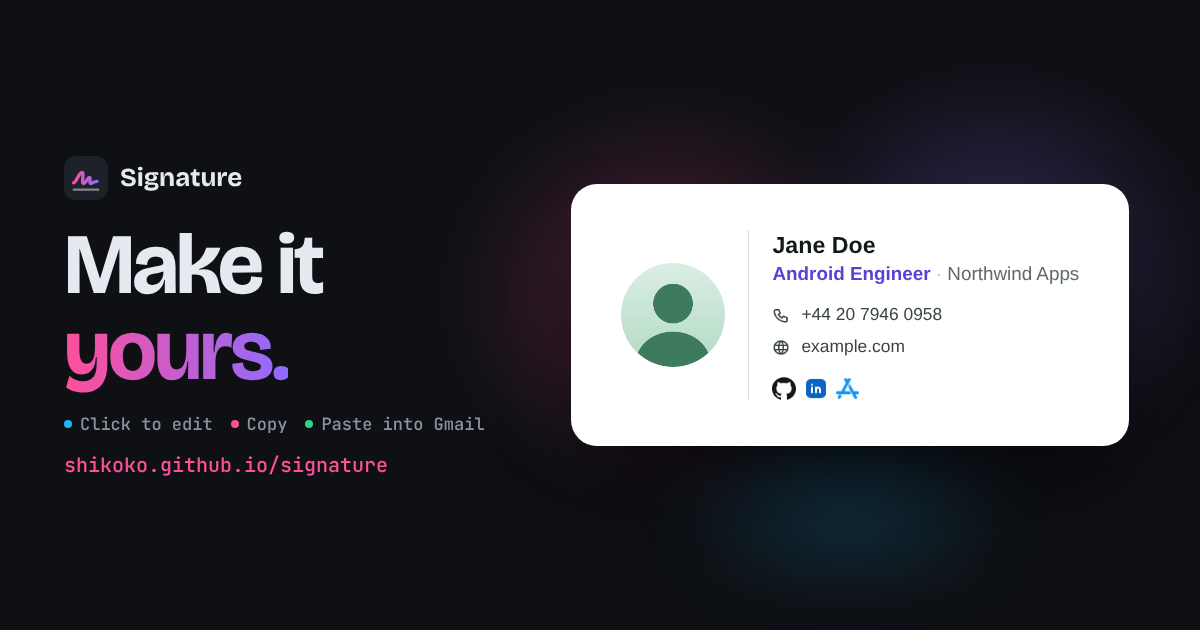
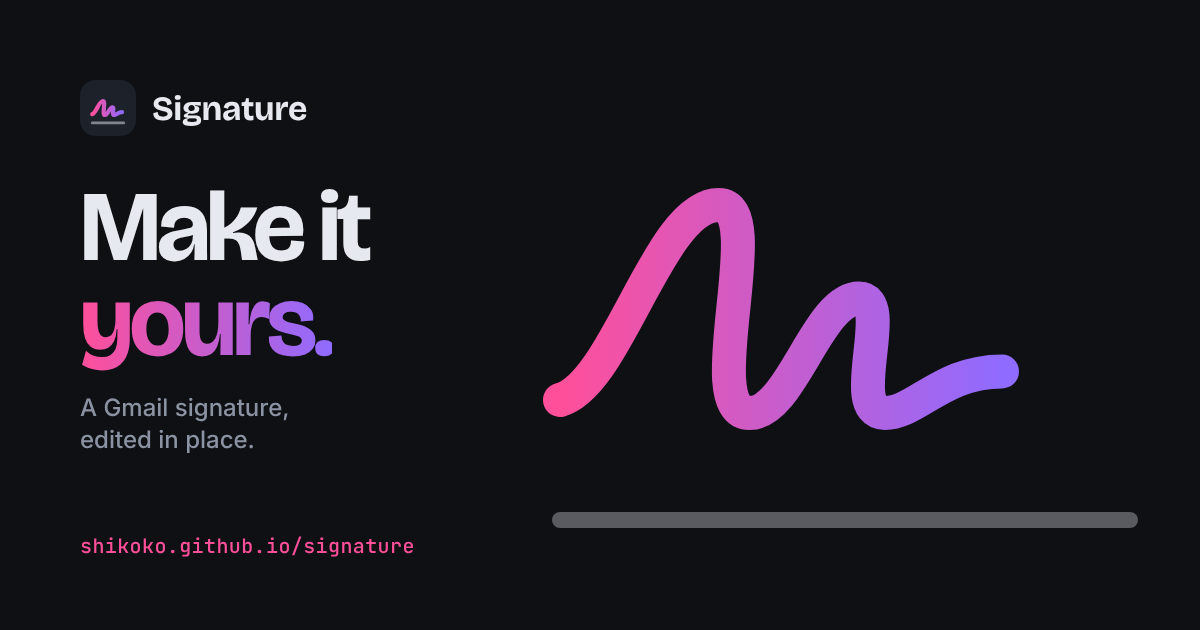
Make the share picture Signature's squiggle, with a source to render it
Links to the site showed a product shot: the opening words beside the
example signature. The share picture, assets/social-preview.png, is now
Signature's icon drawn large: the pink-to-violet squiggle above its
line on the page's dark background, beside "Make it yours." and "A
Gmail signature, edited in place.".

- tools/social-card/card.html is the picture's source, and render.js
  renders it at 1200x630 for the site and at 1280x640 for the
  repository's social preview on GitHub, which is uploaded by hand and
  not committed. It stops if the fonts didn't load.
- The product shot stays at the top of the README, now as
  assets/example-signature.png.
- og:image gets ?v=2 so sites fetch the new picture, and og:image:alt
  describes it.
- README.md and CLAUDE.md describe the new files.

Side effect: links shared before this may keep the old picture on sites
that cached it.

diff --git a/tools/social-card/card.html b/tools/social-card/card.html
@@ -1,0 +1,41 @@
+<!DOCTYPE html>
+<!-- The share picture for https://shikoko.github.io/signature/: the source of
+     assets/social-preview.png (1200x630, the page's og:image) and of
+     github-social-preview.png (1280x640, uploaded by hand as the repository's
+     social preview on GitHub). render.js in this folder renders both.
+     Signature's icon drawn large: the pink-to-violet squiggle above its line,
+     on the page's dark background, beside the page's opening words. -->
+<html lang="en-GB">
+<head>
+<meta charset="UTF-8">
+<title>Signature share picture</title>
+<link href="https://fonts.googleapis.com/css2?family=Bricolage+Grotesque:opsz,wght@12..96,700&family=Inter:wght@500&family=JetBrains+Mono:wght@500&display=swap" rel="stylesheet">
+<style>
+  * { box-sizing: border-box; margin: 0; padding: 0; }
+  html, body { width: 100vw; height: 100vh; overflow: hidden; }
+  body { position: relative; background: #0e1014; color: #e6e9ef; font-family: "Bricolage Grotesque", sans-serif; -webkit-font-smoothing: antialiased; }
+  .text { position: absolute; z-index: 1; left: 80px; top: 80px; bottom: 74px; display: flex; flex-direction: column; }
+  .brand { display: flex; align-items: center; gap: 16px; font-size: 34px; font-weight: 700; letter-spacing: -.01em; }
+  .brand svg { width: 56px; height: 56px; }
+  h1 { margin-top: 44px; font-size: 100px; font-weight: 700; line-height: .95; letter-spacing: -.04em; }
+  h1 em { font-style: normal; background: linear-gradient(90deg, #ff4f9a, #8f6bff); -webkit-background-clip: text; background-clip: text; color: transparent; }
+  .line { margin-top: 22px; font: 500 24px/1.35 Inter, sans-serif; color: #8b93a3; }
+  .site { margin-top: auto; font: 500 20px/1 "JetBrains Mono", monospace; letter-spacing: .02em; color: #ff4f9a; }
+  .art { position: absolute; inset: 0; width: 100%; height: 100%; }
+</style>
+</head>
+<body>
+  <div class="text">
+    <div class="brand"><svg viewBox="0 0 32 32" aria-hidden="true"><defs><linearGradient id="mark" x1="0" x2="1"><stop offset="0" stop-color="#ff4f9a"/><stop offset="1" stop-color="#8f6bff"/></linearGradient></defs><rect width="32" height="32" rx="9" fill="#1d212a"/><path d="M7 19.5c2.2-.6 3.8-7.5 6.1-7.5 2 0-.9 8 1.2 8 1.6 0 2.6-4.4 4.2-4.4 1.4 0-.6 4.4 1 4.4 1.2 0 2.2-1.6 4.5-1.6" fill="none" stroke="url(#mark)" stroke-width="2.4" stroke-linecap="round" stroke-linejoin="round"/><path d="M7 24.5h18" stroke="#e6e9ef" stroke-opacity=".5" stroke-width="1.6" stroke-linecap="round"/></svg>Signature</div>
+    <h1>Make it<br><em>yours.</em></h1>
+    <p class="line">A Gmail signature,<br>edited in place.</p>
+    <p class="site">shikoko.github.io/signature</p>
+  </div>
+  <!-- The icon's squiggle at 26 times its size, starting at (560, 400), above its line -->
+  <svg class="art" viewBox="0 0 1200 630" preserveAspectRatio="xMaxYMid meet" aria-hidden="true">
+    <defs><linearGradient id="ink" x1="0" x2="1"><stop offset="0" stop-color="#ff4f9a"/><stop offset="1" stop-color="#8f6bff"/></linearGradient></defs>
+    <path d="M560 400 c 57.2 -15.6, 98.8 -195, 158.6 -195 c 52 0, -23.4 208, 31.2 208 c 41.6 0, 67.6 -114.4, 109.2 -114.4 c 36.4 0, -15.6 114.4, 26 114.4 c 31.2 0, 57.2 -41.6, 117 -41.6" fill="none" stroke="url(#ink)" stroke-width="34" stroke-linecap="round" stroke-linejoin="round"/>
+    <path d="M 560 520 H 1130" stroke="#e6e9ef" stroke-opacity=".35" stroke-width="16" stroke-linecap="round"/>
+  </svg>
+</body>
+</html>

diff --git a/tools/social-card/render.js b/tools/social-card/render.js
@@ -1,0 +1,41 @@
+// Renders card.html into the two share pictures:
+//   assets/social-preview.png   1200x630, the page's og:image
+//   tools/social-card/github-social-preview.png   1280x640, for the repository's
+//     social preview on GitHub (Settings, General, Social preview), uploaded by hand
+// It stops if the fonts didn't load, so a picture never goes out in fallback fonts.
+//
+// From this folder: npm ci, npx playwright install chromium, then npm run render.
+
+const { chromium } = require("playwright");
+const path = require("path");
+
+const here = __dirname;
+const root = path.resolve(here, "..", "..");
+const pictures = [
+  { width: 1200, height: 630, file: path.join(root, "assets", "social-preview.png") },
+  { width: 1280, height: 640, file: path.join(here, "github-social-preview.png") },
+];
+
+(async () => {
+  const browser = await chromium.launch();
+  try {
+    for (const { width, height, file } of pictures) {
+      const page = await browser.newPage({ viewport: { width, height } });
+      await page.goto("file://" + path.join(here, "card.html"), { waitUntil: "networkidle" });
+      const missing = await page.evaluate(async () => {
+        const fonts = [["Bricolage Grotesque", "700"], ["Inter", "500"], ["JetBrains Mono", "500"]];
+        await document.fonts.ready;
+        return fonts.filter(([family, weight]) => !document.fonts.check(`${weight} 16px "${family}"`)).map(([family]) => family);
+      });
+      if (missing.length) throw new Error(`${missing.join(", ")} didn't load.`);
+      await page.screenshot({ path: file });
+      await page.close();
+      console.log(path.relative(root, file), `${width}x${height}`);
+    }
+  } finally {
+    await browser.close();
+  }
+})().catch((error) => {
+  console.error(error.message);
+  process.exit(1);
+});

diff --git a/index.html b/index.html
@@ -11,10 +11,10 @@
 <meta property="og:title" content="Signature · Make your Gmail signature">
 <meta property="og:description" content="Edit your signature in place, choose a layout and icons, and paste it straight into Gmail.">
 <meta property="og:url" content="https://shikoko.github.io/signature/">
-<meta property="og:image" content="https://shikoko.github.io/signature/assets/social-preview.png">
+<meta property="og:image" content="https://shikoko.github.io/signature/assets/social-preview.png?v=2">
 <meta property="og:image:width" content="1200">
 <meta property="og:image:height" content="630">
-<meta property="og:image:alt" content="An example email signature with a photo, name, job title, contact details and profile icons, on a dark page.">
+<meta property="og:image:alt" content="Signature's icon drawn large, a pink-to-violet squiggle above a line, beside the words Make it yours. A Gmail signature, edited in place.">
 <meta name="twitter:card" content="summary_large_image">
 <meta name="theme-color" content="#0e1014">
 <link rel="icon" type="image/svg+xml" href="assets/favicon.svg">

diff --git a/README.md b/README.md
@@ -4,7 +4,7 @@ Make a Gmail signature by editing it in place, then paste it into Gmail.
 
 **Live:** https://shikoko.github.io/signature/
 
-![An example signature with a photo, name, job title, contact details and profile icons, next to the words "Make it yours."](assets/social-preview.png)
+![An example signature with a photo, name, job title, contact details and profile icons, next to the words "Make it yours."](assets/example-signature.png)
 
 ## What it does
 
@@ -34,7 +34,8 @@ Gmail removes stylesheets, web fonts, SVG and embedded `data:` images from signa
 - `app.js`: editing, the hover bar, the pop-ups, the Design panel and copying
 - `icons/v1/`: the icons the copied signatures link to
 - `tools/icons/`: the script that draws the icons
-- `assets/`: the favicon, the example photo and the social preview image
+- `assets/`: the favicon, the example photo, the example signature at the top of this README, and the share picture (`social-preview.png`)
+- `tools/social-card/`: the share picture's source, `card.html`, and `render.js`, which renders it for the site and at 1280×640 for the repository's social preview on GitHub
 - `.github/workflows/`: publishing the site, checks on pull requests, and tidying pull request footers
 
 ## Running it locally

diff --git a/CLAUDE.md b/CLAUDE.md
@@ -6,7 +6,8 @@ A static site with no build step. The **Website** workflow (`.github/workflows/w
 - `signature.js`: the signature's details and the renderer for the copied HTML, the email preview and the editable card
 - `app.js`: editing, the hover bar, the pop-ups, the Design panel and copying
 - `icons/v1/`: the icons copied signatures link to; `tools/icons/` draws them
-- `assets/`: favicon, example photo, social preview image
+- `assets/`: favicon, example photo, the README's example signature picture, the share picture (`social-preview.png`)
+- `tools/social-card/`: the share picture's source (`card.html`) and `render.js`, which renders it to `assets/social-preview.png` and, for the repository's social preview on GitHub (uploaded by hand in Settings), to `github-social-preview.png`. After changing it, bump the `?v=` on `og:image` in `index.html` so sites fetch the new picture.
 
 ## Commits and pull requests
 
